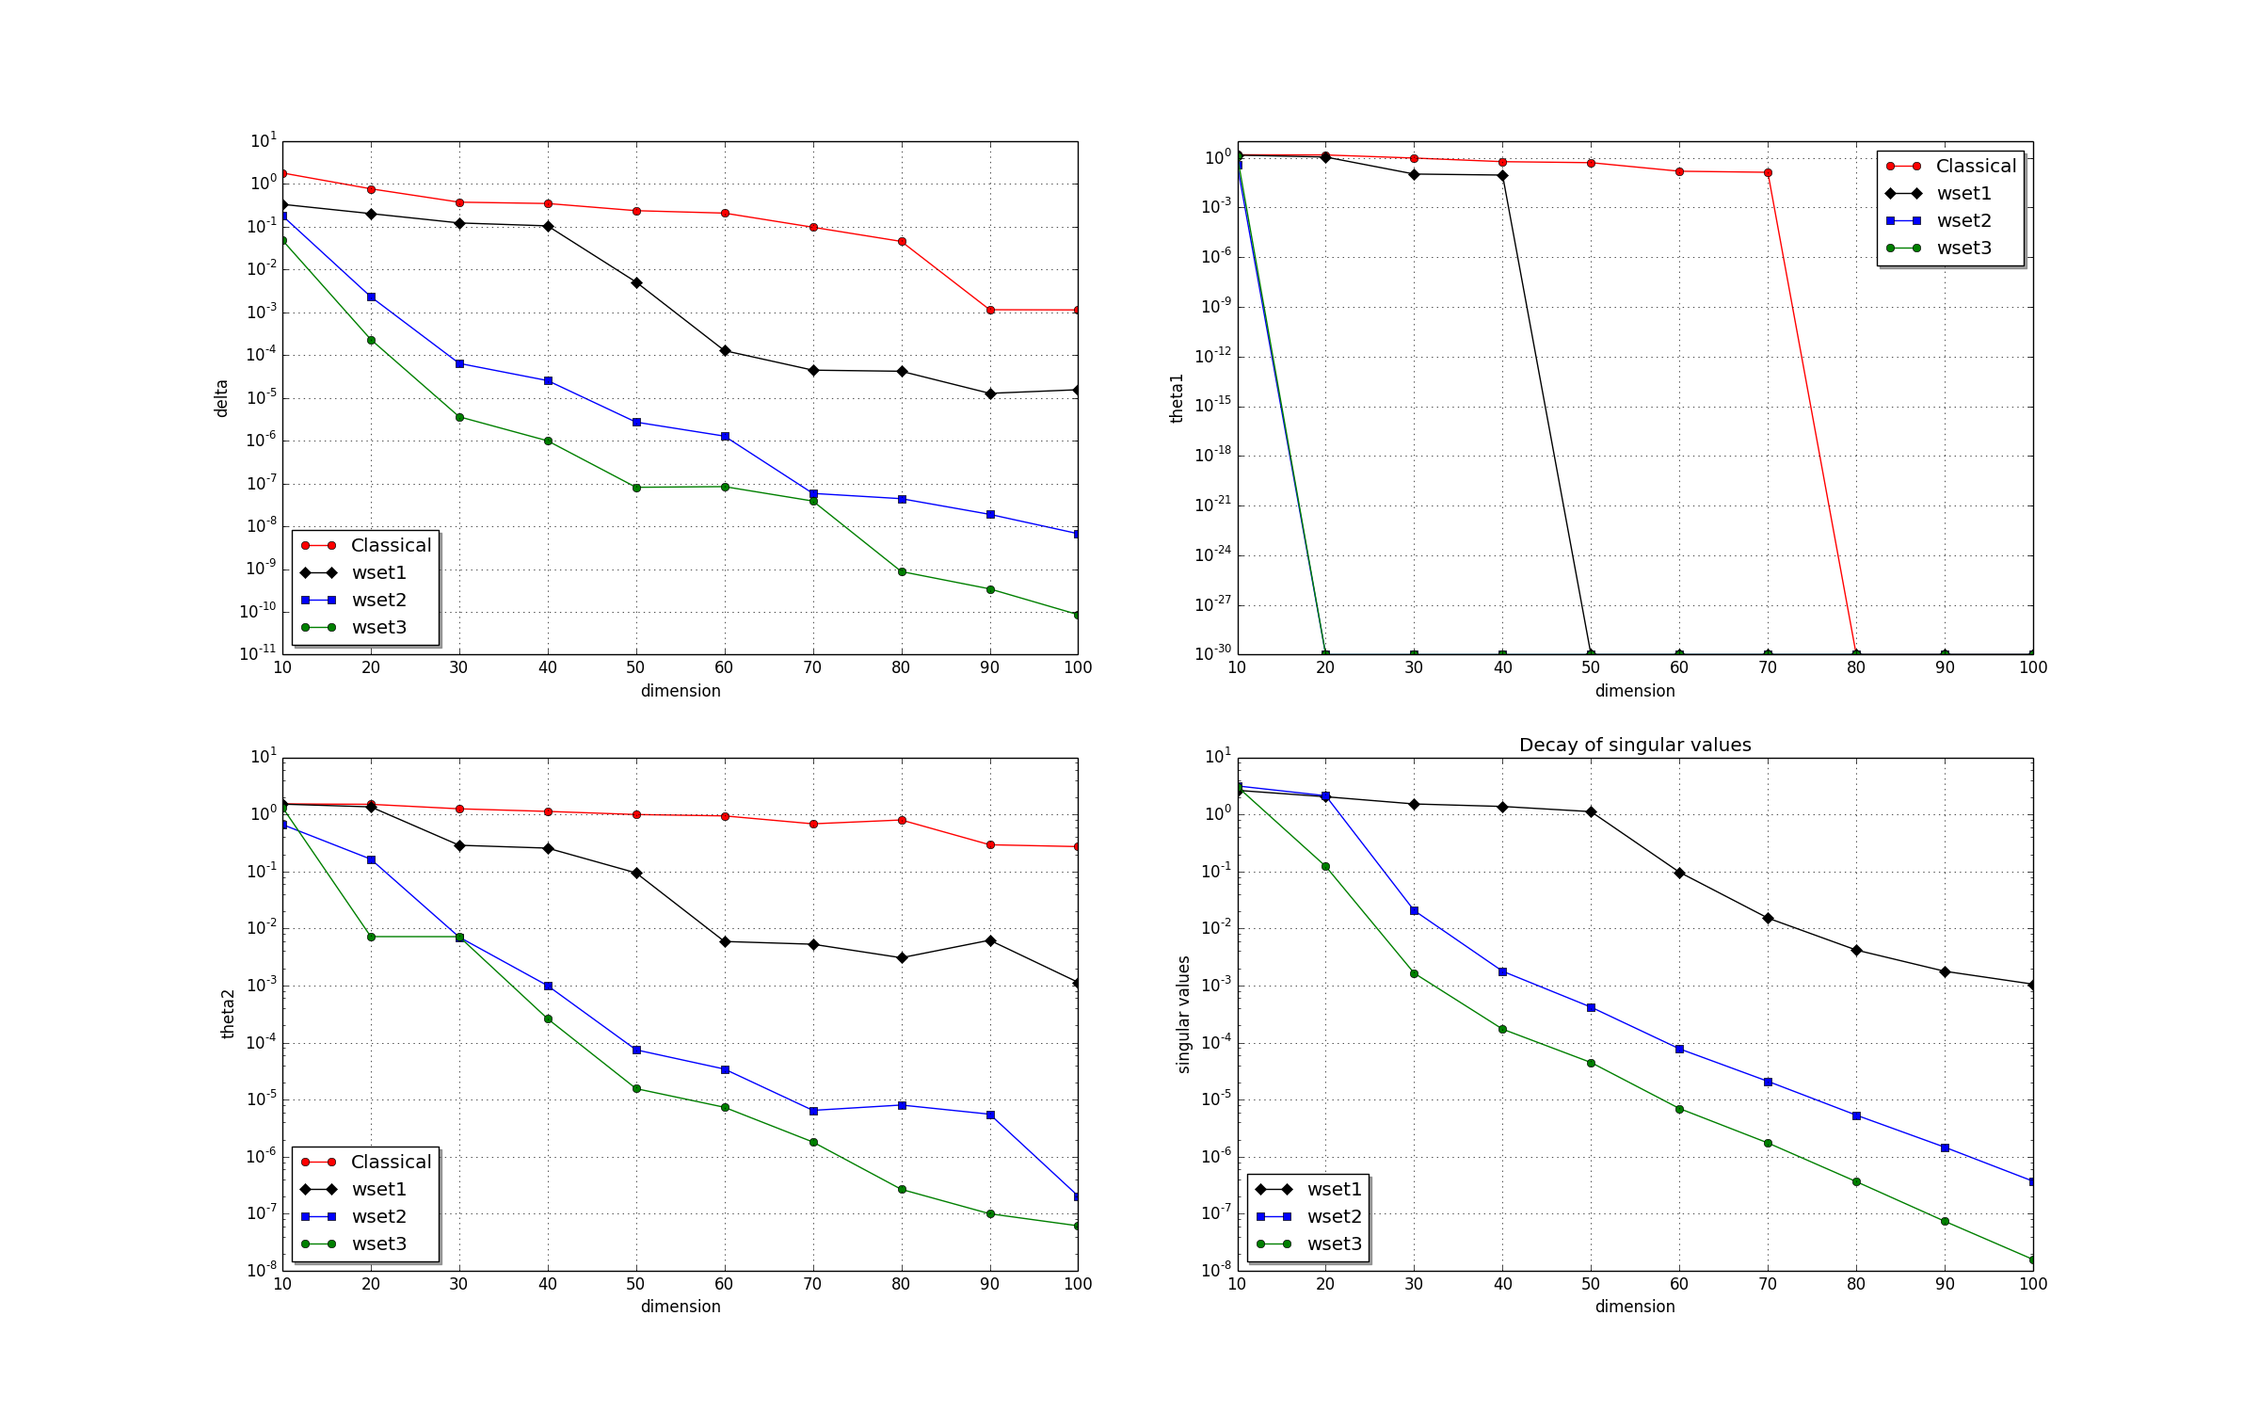
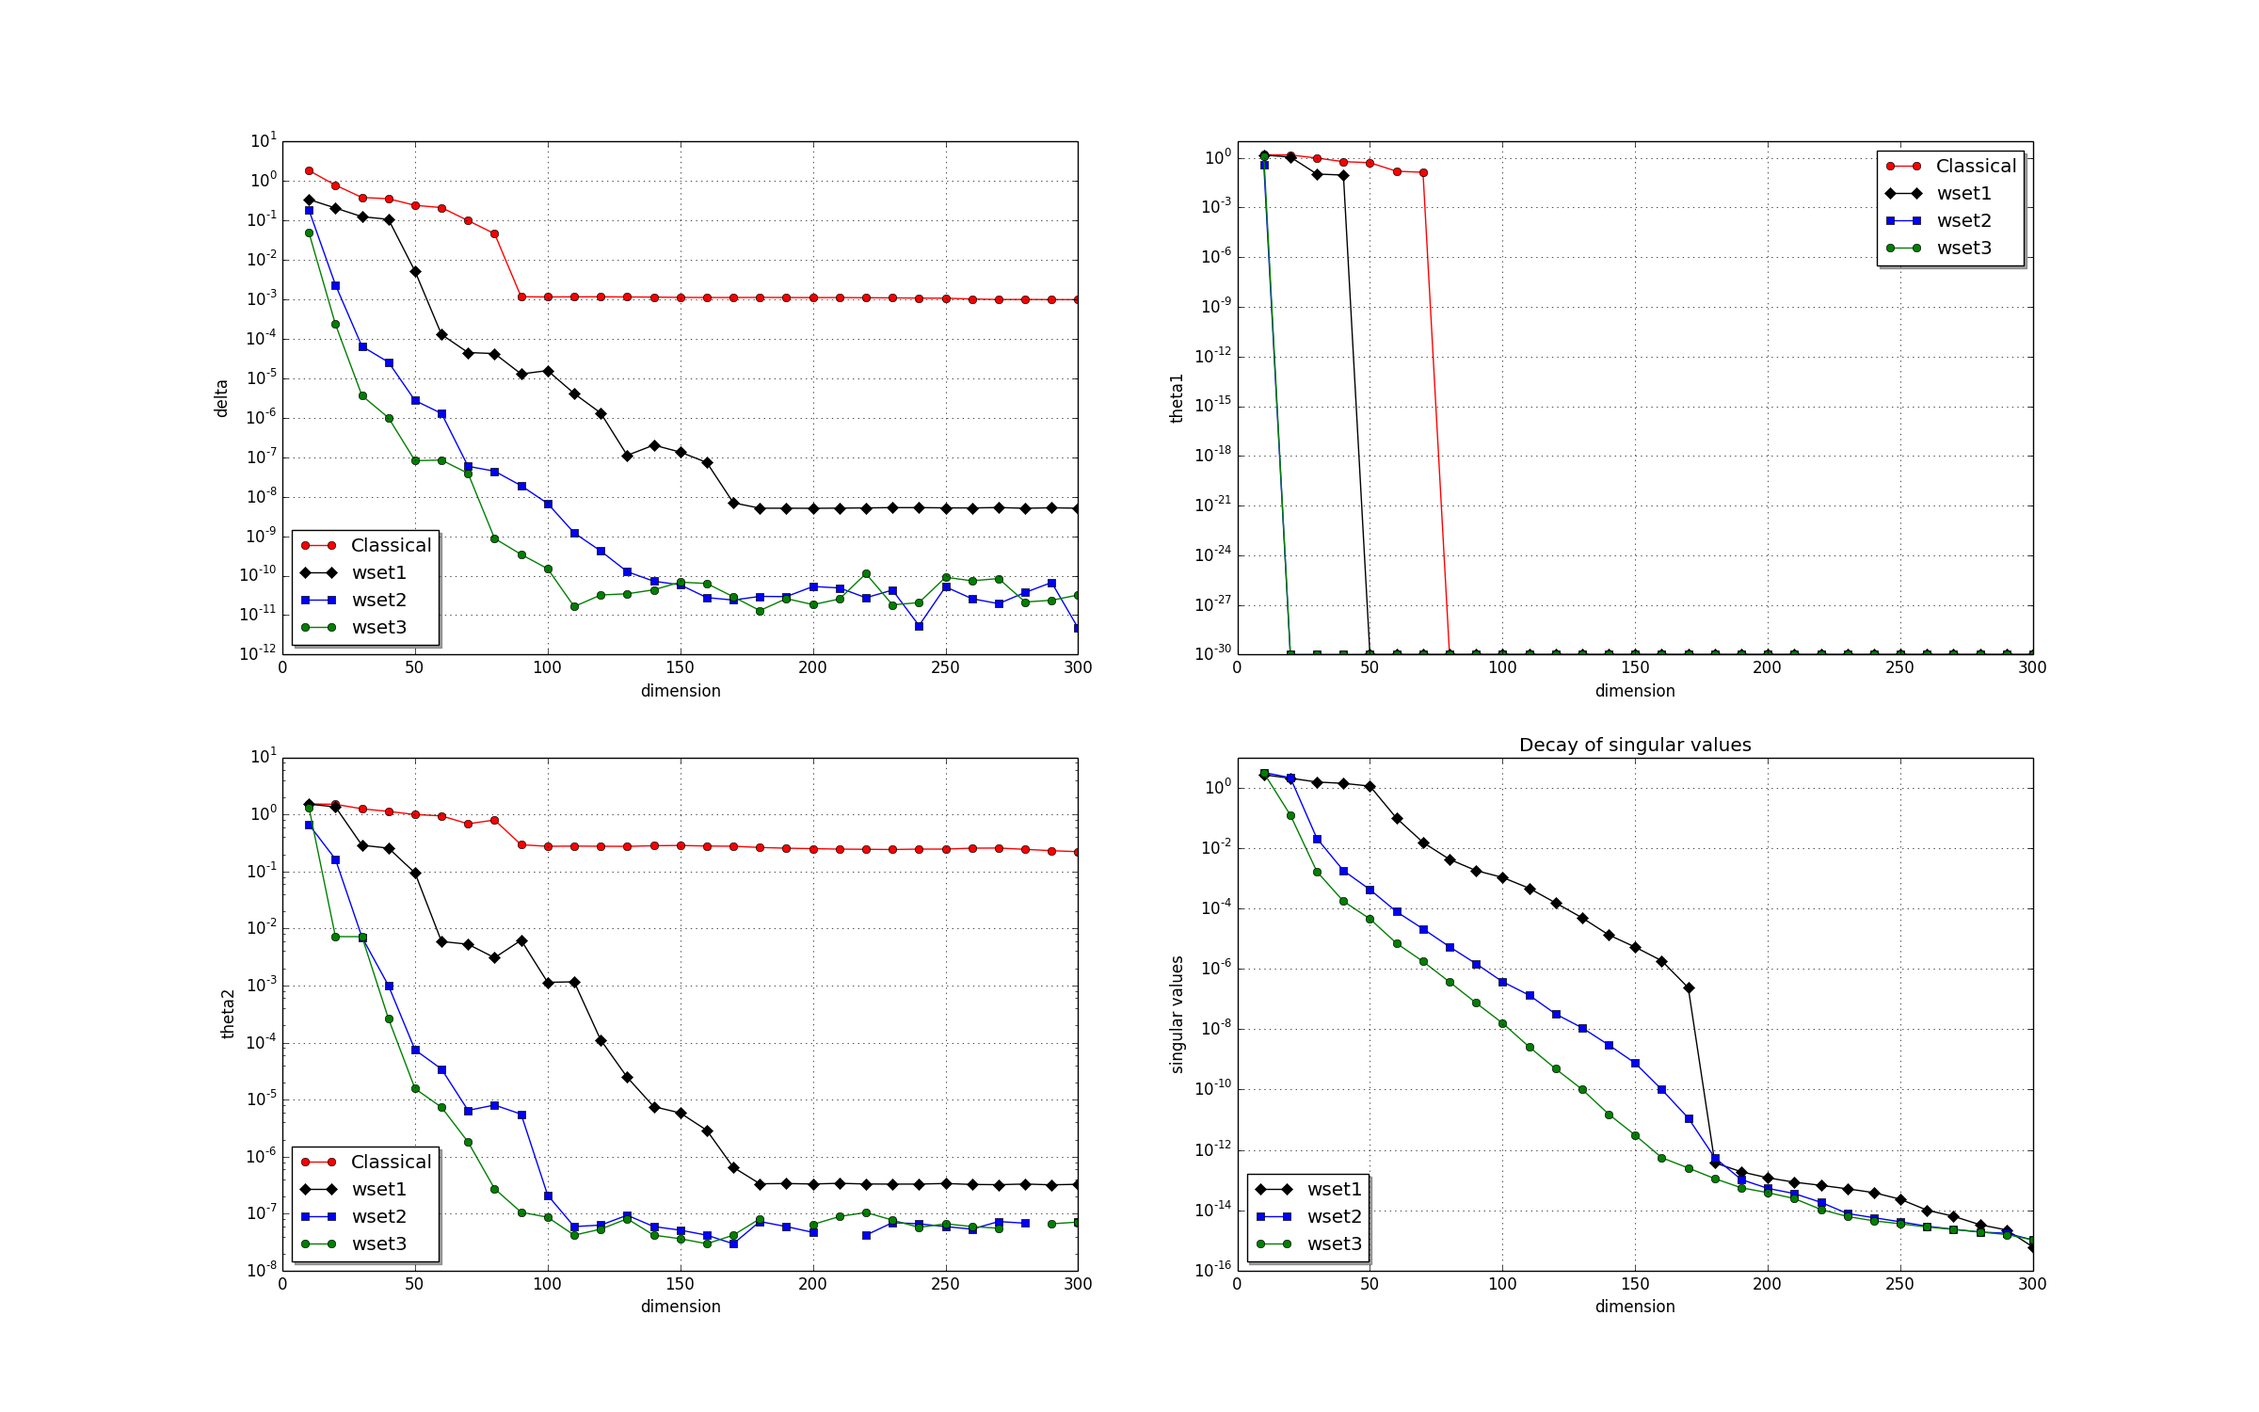
plots added

diff --git a/plotEigsExactClassicalPOD.py b/plotEigsExactClassicalPOD.py
@@ -1,0 +1,148 @@
+''' 
+1. Compares the exact eigenvalues in the target region with the eigenvalues 
+obtained from the Tradional and POD Approach.
+'''
+
+#----------------------------------Standard Library Imports---------------------------------------
+import os
+import math
+import numpy
+import timeit
+import socket
+import datetime
+from pylab import *
+import numpy.linalg as LA
+from numpy.linalg import norm
+import matplotlib.pyplot as plt
+
+#----------------------------Application Specific Imports-----------------------------------------
+import brake
+import createBrakeClassObject
+from brake.initialize import load, assemble, scale, diagscale, unlinearize
+from brake.solve import projection, classicalProjection, solver, qevp
+from brake.analyze import residual, visual
+
+#----------------------------Create Object with no logging ---------------------------------------
+logLevel = 0
+obj = createBrakeClassObject.returnObject(logLevel)
+
+####################################################################
+####################################################################
+####################### Exact Eigenvalues ##########################
+####################################################################
+####################################################################
+
+#Calculating exact eigenpairs of the QEVP for omega = omegaTest in the target region
+#--------------------------------------------------------------------------------------------------
+print '\n\n----------------------------------------------------------------------------------------'
+print "\n"+"\n"+'Calculating exact eigenpairs of the QEVP for omega = '+str(obj.omegaTest/(2*math.pi))+' in the target region \n'
+laExact, evecExact = qevp.brake_squeal_qevp(obj, 1, obj.omegaTest)
+#Extracting the eigenvalues and the corresponding eigenvectors that lie in the target region
+laTarget, evecTarget = brake.extractEigs(obj, laExact, evecExact, 'target')
+deltaTarget = numpy.zeros(laTarget.shape[0],dtype=numpy.float64)
+
+
+#Obtaining the original M,C,K matrices for the test omega
+sparse_list = load.load_matrices(obj)
+M_orig, C_orig, K_orig = assemble.create_MCK(obj, sparse_list, obj.omegaTest)
+
+####################################################################
+####################################################################
+####################### Classical Projection #######################
+####################################################################
+####################################################################
+print '\n\nObtaining the classical projection matrix'
+la, evec = classicalProjection.Obtain_eigs(obj,150)
+XClassical = numpy.concatenate((evec.real,evec.imag), axis=1)
+print '\nClassical Projection with size of measurment matrix = '+str(XClassical.shape)
+#Setting Dimension of the projection matrix
+obj.projectionDimension = 300
+Q, singularValues = projection.obtain_projection_matrix(obj,XClassical)
+QT = Q.T.conjugate()
+M =  QT.dot(M_orig.dot(Q))
+C =  QT.dot(C_orig.dot(Q))
+K =  QT.dot(K_orig.dot(Q))
+print 'Projected the QEVP having dimension '+str(M_orig.shape)+' onto a smaller subspace of dimension '+str(M.shape[1])
+n = M.shape[0]
+no_of_evs = 2*n-2;
+laClassical, evecClassical = solver.qev_dense(obj,M,C,K,no_of_evs)
+evecClassical = unlinearize.unlinearize_matrices(evecClassical)
+
+#print '\n\n\nCalculating Delta'
+deltaClassical = numpy.zeros(laClassical.shape[0],dtype=numpy.float64)
+for itr in range(0,len(laClassical)):
+	deltaClassical[itr] = numpy.min(numpy.absolute(laClassical[itr]-laTarget))/numpy.max(numpy.absolute(laTarget))
+
+####################################################################
+####################################################################
+####################### POD Approach ###############################
+####################################################################
+####################################################################
+print '\n\nObtaining the POD projection matrix'
+print '\nCreating the Measurment Matrix for wset3'
+obj.evs_per_shift = 17
+obj.omega_basis = numpy.array([1,2.5,5,7.5,10,12.5,15,17.5,20])*2*math.pi
+X_wset3 = projection.obtain_measurment_matrix(obj)
+print '\nPOD Projection with size of measurment matrix = '+str(X_wset3.shape)
+#Setting Dimension of the projection matrix
+obj.projectionDimension = 300
+Q, singularValues = projection.obtain_projection_matrix(obj,X_wset3)
+QT = Q.T.conjugate()
+M =  QT.dot(M_orig.dot(Q))
+C =  QT.dot(C_orig.dot(Q))
+K =  QT.dot(K_orig.dot(Q))
+print 'Projected the QEVP having dimension '+str(M_orig.shape)+' onto a smaller subspace of dimension '+str(M.shape[1])
+n = M.shape[0]
+no_of_evs = 2*n-2;
+laPOD, evecPOD = solver.qev_dense(obj,M,C,K,no_of_evs)
+evecPOD = unlinearize.unlinearize_matrices(evecPOD)
+
+#print '\n\n\nCalculating Delta'
+deltaPOD = numpy.zeros(laPOD.shape[0],dtype=numpy.float64)
+for itr in range(0,len(laPOD)):
+	deltaPOD[itr] = numpy.min(numpy.absolute(laPOD[itr]-laTarget))/numpy.max(numpy.absolute(laTarget))
+	
+print numpy.sort(deltaClassical)
+print numpy.sort(deltaPOD)
+####################################################################
+####################################################################
+'''
+x1 = obj.target[0]
+x2 = obj.target[1]
+y1 = obj.target[2]
+y2 = obj.target[3]
+# calculate center of the obj.target rectangular region
+tau = complex((x1+x2)/2,(y1+y2)/2)
+fig = plt.figure(figsize=(16.0, 10.0))
+react = plt.Rectangle((x1,y1),abs(x2-x1),abs(y2-y1),color='black',fill=False)
+
+
+plt.plot(laTarget.real, laTarget.imag, 'ko', label='exact')
+plt.plot(laClassical.real, laClassical.imag, 'r+', markersize=10, fillstyle='none', label='traditional')
+plt.plot(laPOD.real, laPOD.imag, 'go', markersize=10, fillstyle='none', label='POD')
+plt.legend(loc='upper right', shadow=True)
+brake.save(obj.output_path+'eigsExactClassicalPOD'+str(obj.omegaTest/(2*math.pi)), ext="png", close=False, verbose=True)
+plt.show()
+'''
+
+fig = plt.figure()
+ax = plt.gca()
+minLim = min(deltaPOD)
+maxLim = pow(10,-5)
+hdl = plt.scatter(laTarget.real, laTarget.imag, s=10, c=deltaTarget, marker='o', vmin=minLim, vmax=maxLim, label='exact')
+hdl = plt.scatter(laClassical.real, laClassical.imag, s=100, c=deltaClassical, marker='+', facecolors='none', linewidth='3', vmin=minLim, vmax=maxLim, label='traditional')
+hdl = plt.scatter(laPOD.real, laPOD.imag, s=100, c=deltaPOD, marker='o', facecolors='none', linewidth='3', vmin=minLim, vmax=maxLim, label='POD')
+plt.legend(loc='upper left', shadow=True)
+xWidth = max(laTarget.real)-min(laTarget.real)
+yWidth = max(laTarget.imag)-min(laTarget.imag)
+ax.set_xlim((min(laTarget.real)-0.1*xWidth,max(laTarget.real)+0.1*xWidth))
+ax.set_ylim((min(laTarget.imag)-0.1*yWidth,max(laTarget.imag)+0.1*yWidth))
+plt.axhline(0, color='blue')
+plt.axvline(0, color='blue')
+clevs = [-15, -10, -5]
+cb1 = plt.colorbar(hdl, orientation='vertical')#, ticks=clevs)
+cb1.ax.set_yticklabels(np.arange(-15,-4))# vertically oriented colorbar
+brake.save(obj.output_path+'eigsExactClassicalPOD'+str(obj.omegaTest/(2*math.pi)), ext="png", close=False, verbose=True)
+plt.show()
+####################################################################
+####################################################################

diff --git a/testBrakePlot.py b/testBrakePlot.py
@@ -1,25 +1,35 @@
-"""Produce custom labelling for a colorbar.
-
-Contributed by Scott Sinclair
-"""
-
-import matplotlib.pyplot as plt
-import numpy as np
+import brake
 from matplotlib import cm
 from numpy.random import randn
+import createBrakeClassObject
+import numpy as np
+import numpy.linalg as LA
+import matplotlib.pyplot as plt
 
-# Make plot with vertical (default) colorbar
-fig, ax = plt.subplots()
+obj = createBrakeClassObject.returnObject(0)
 
-data = np.clip(randn(250, 250), -1, 1)
-
-cax = ax.imshow(data, interpolation='nearest', cmap=cm.coolwarm)
-ax.set_title('Gaussian noise with vertical colorbar')
-
-# Add colorbar, make sure to specify tick locations to match desired ticklabels
-cbar = fig.colorbar(cax, ticks=[-1, 0, 1])
-cbar.ax.set_yticklabels(['< -1', '0', '> 1'])# vertically oriented colorbar
-
-
-
+# Simple data to display in various forms
+x = np.linspace(0, 2 * np.pi, 400)
+y = np.sin(x ** 2)
+z = np.linspace(0, 2 * np.pi, 400)
+fig = plt.figure(figsize=(24.0, 15.0))
+'''
+fig = plt.plot(x, y, 'ko',  label='Classical')
+ax = plt.gca()
+plt.plot(x, 5*y, 'r+', markersize=10, fillstyle='none', label='5times')
+plt.plot(x, 10*y, 'go', markersize=10, fillstyle='none', label='10times')
+plt.legend(loc='lower left', shadow=True)
+plt.yscale('log')
+plt.xlabel('dimension')
+plt.title('relative error between computed and exact eigenvalues')
+plt.grid(True)
+'''
+fig = plt.figure()
+hdl = plt.scatter(x, y, s=100, c=z, marker='o', facecolors='none', linewidth='0', vmin=0, vmax=2, label='5times')
+hdl = plt.scatter(x, 5*y, s=100, c=z, marker='o', facecolors='none', vmin=0,vmax=2, label='5times')
+ax = plt.gca()
+ax.set_xlim([-2,2])
+ax.set_ylim([-2,2])
+clevs = [0, 1 , 2]
+cb1 = plt.colorbar(hdl, orientation='vertical', ticks=clevs)
 plt.show()

diff --git a/createBrakeClassObject.py b/createBrakeClassObject.py
@@ -24,8 +24,7 @@ def returnObject(logLevel):
   print "Working on :", host, "computer"
 
   if host == 'laplace':
-    input_path = '/homes/numerik/quraishi/work/paperprojects/brake_squeel_project/ProblemData/\
-    Matrix/5kOmegaRef%(row)d/' % {'row': omegaRef}
+      input_path = '/homes/numerik/quraishi/work/paperprojects/brake_squeel_project/ProblemData/Matrix/5kOmegaRef%(row)d/' % {'row': omegaRef}
   elif host == 'aif-server':
       input_path = 'd:/eigenwerte/ProblemData/Matrix/800kOmegaRef%(row)d/' % {'row': omegaRef}
   elif host == 'frenet':
@@ -65,7 +64,6 @@ def returnObject(logLevel):
   '''
   obj = brake.BrakeClass(input_path, output_path, info_log_file, time_log_file, log_level)
 
-
   '''
   Adding more attributes to the BrakeClass object 'obj' created above.
 
@@ -90,7 +88,7 @@ def returnObject(logLevel):
 
   evs_per_shift - number of eigenvalues to be calculated per shift
   desired_area_fraction - area fraction of the target region to be covered
-
+  desiredCount - the minimum count of the eigenvalues to be captured for each frequency
   omegaTest - test omega for comparison of the classical approach with the POD approach
   '''
 
@@ -109,8 +107,11 @@ def returnObject(logLevel):
   setattr(obj, 'evs_per_shift', 30)
   setattr(obj, 'desired_area_fraction', 0.99)
   setattr(obj, 'desiredCount', 0)
+  setattr(obj, 'omegaTest', 16*2*math.pi)
 
-  setattr(obj, 'omegaTest', 17*2*math.pi)
+  #Log all the BrakeClass attribute values in the info log file
+  if(obj.log_level):
+     obj.displayParametersLog()
 
   return obj
 

diff --git a/brake/solve/projection.py b/brake/solve/projection.py
@@ -26,18 +26,16 @@ def obtain_projection_matrix(obj,X):
         r"""
         
         :param obj: object of the class ``BrakeClass``
+	:param X: measurment matrix
         :return: ``Q`` - projection matrix
         
         Procedure::
         
          The projection matrix is obtained as follows:
         
-         - Obtain the measurment matrix X = [X_real X_imag], with X_real as a list of 
-           real parts of eigenvectors and X_imag as a list of imaginary parts of 
-           eigenvectors, corresponding to each base angular frequency in omega_basis.
          - Compute the thin svd of the measurment matrix. X = U * s * V
          - Set Q = truncated(U), where the truncation is done to take only the significant 
-           singular values(based on a certain tolerance) into account
+           singular values(provided by user in obj.projectionDimension) into account
 
         """
         
@@ -73,7 +71,7 @@ def obtain_projection_matrix(obj,X):
 	s_truncated = s[0:obj.projectionDimension]
         Q = U[:,0:obj.projectionDimension]
 		
-	print '\n Extracted '+str(obj.projectionDimension)+' significant singular values from '+str(s.shape[0])+' to obtain projection matrix of dimension '+str(Q.shape)
+	print '\nExtracted '+str(obj.projectionDimension)+' significant singular values from '+str(s.shape[0])+' to obtain projection matrix of dimension '+str(Q.shape)
         
         if(LOG_LEVEL):
            logger_i.info('The no of singular values = '+str(s.shape[0]))

diff --git a/colorBar.py b/colorBar.py
@@ -1,0 +1,35 @@
+import numpy as np
+import matplotlib.pyplot as plt    
+
+a = -2
+b = 2
+
+x = (b - a) * np.random.random(50) + a
+y = (b - a) * np.random.random(50) + a
+z = (b) * np.random.random(50)
+print x.shape, y.shape, z.shape
+
+fig = plt.figure()
+hdl = plt.scatter(x,y,s=20,c=z,marker='o',vmin=0,vmax=2)
+ax = plt.gca()
+ax.set_xlim([-2,2])
+ax.set_ylim([-2,2])
+'''
+#[(lower left x, lower left y), (upper right x, upper right y)] of the desired colorbar:
+dat_coord = [(-1.5,1.5),(-0.5,1.75)]
+#transform the two points from data coordinates to display coordinates:
+tr1 = ax.transData.transform(dat_coord)
+#create an inverse transversion from display to figure coordinates:
+inv = fig.transFigure.inverted()
+tr2 = inv.transform(tr1)
+#left, bottom, width, height are obtained like this:
+datco = [tr2[0,0], tr2[0,1], tr2[1,0]-tr2[0,0],tr2[1,1]-tr2[0,1]]
+#and finally the new colorabar axes at the right position!
+cbar_ax = fig.add_axes(datco)
+#the rest stays the same:
+clevs = [0, 1 , 2]
+cb1 = plt.colorbar(hdl, cax=cbar_ax, orientation='horizontal', ticks=clevs)
+'''
+clevs = [0, 1 , 2]
+cb1 = plt.colorbar(hdl, orientation='vertical', ticks=clevs)
+plt.show()

diff --git a/brake/__init__.py b/brake/__init__.py
@@ -11,7 +11,7 @@ This module defines the following functions::
     
   - extractEigs:
    
-    Returns all the required eigenpairs.
+    Extracts the required eigenpairs.
     
   - save
     
@@ -38,8 +38,7 @@ __all__ = [
     'BrakeClass',
     'printEigs',
     'extractEigs',
-    'save',
-    'acuteAngleBetween'
+    'save'
     ]
 
 class BrakeClass:
@@ -249,7 +248,7 @@ def extractEigs(obj,arg,arg2,which_flag):
     return laExtracted, evecExtracted
 
 
-def save(path, ext='png', close=True, verbose=True):
+def save(path, ext='png', close=False, verbose=True):
     r"""Save a figure from pyplot.
 
     Parameters
@@ -300,8 +299,3 @@ def save(path, ext='png', close=True, verbose=True):
 
     if verbose:
         print("Done")
-	
-def acuteAngleBetween(a,b):
-    arccosInput = np.absolute(np.dot(a,b))/(norm(a)*norm(b))
-    arccosInput = 1.0 if arccosInput > 1.0 else arccosInput
-    return math.acos(arccosInput)

diff --git a/brake/solve/classicalProjection.py b/brake/solve/classicalProjection.py
@@ -113,7 +113,7 @@ def Obtain_eigs(obj,no_of_evs):
         res_qevp_post = residual.residual_qevp(M_orig,C_orig,K_orig,la,evec)
         end_rescheck2 = timeit.default_timer()
 
-    print('Eigenvalues for the classical problem are')
+    print('Calculating eigenpairs of the QEVP corressponding to the Classical Projection')
     brake.printEigs(obj,la,'target','terminal')
     print('largest real part of obtained eigenvalue = '),numpy.max(la.real)
 

diff --git a/brake/solve/qevp.py b/brake/solve/qevp.py
@@ -9,7 +9,7 @@ This module defines the following functions::
   - Obtain_eigs:
     
     For a particuar base angular frequency and for a particular shift point this 
-    function evaluates the eigenvalues and eigenvectors
+    function obtains obj.evs_per_shift eigenvalues and the corresponding eigenvectors
   
 """
 
